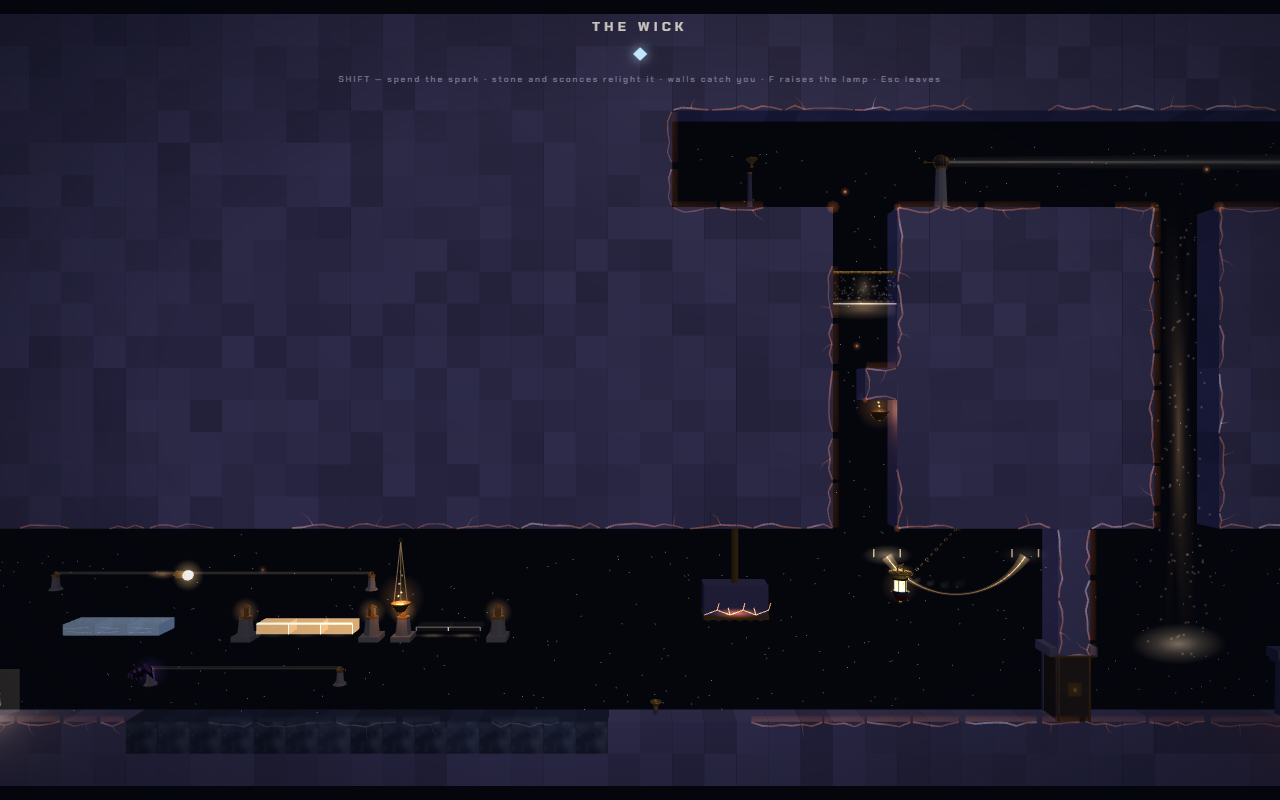
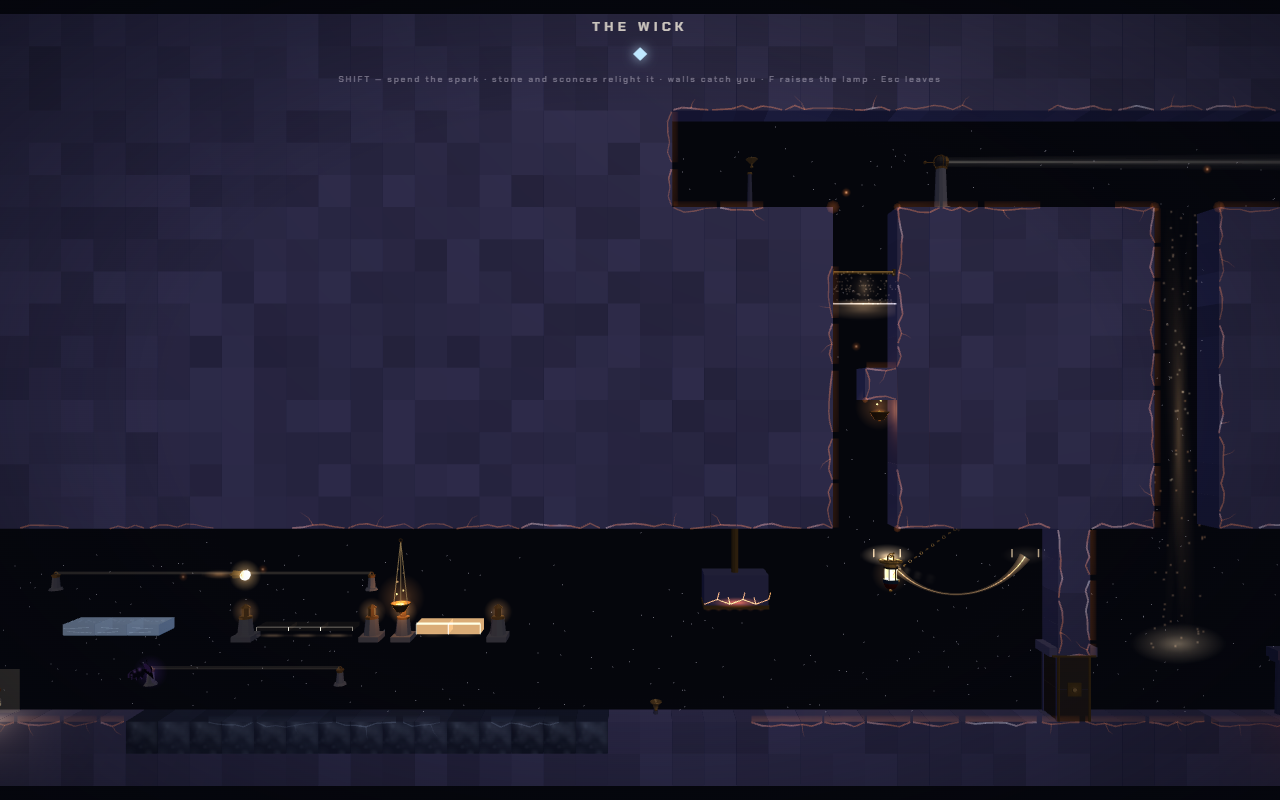
V4 · THE EMBER
The deepest room in the game, 44 x 56, and the first authored against the
final kit. Commitment is the idea and the room says it three ways.

The top third is rime alone. Crumble-and-regrow is a cadence when nothing
else is moving, and this room owns the cycle behaviour — the one-shot trap
shelf belongs to THE WEATHER and the two never share a room.

Then the gate, spanning the shaft. You drop through it and it will not pass
you back, which is the room stating what planting costs before anything is
hunting you.

Then everything at once: three lanterns a quarter-pulse apart over the drop,
bolts walking the wire, pistons out of both walls in opposition, watch-lights
parked on each wall until the gate arms them, the famine's own floor to land
a spent breath on, and the moth asleep on the left wall — it takes the breath
and leaves you standing, which in a shaft with a wave in it is worse than a
clean death. The trigger sits two screens under the gate; the side pockets
hold the braziers and the mid sconce, each costing a detour the wave taxes.
The seed is the only calm in it.

Graded, not merely reported: golden path proved on the P5 model, and clean
on the climax census, the sconce buffer and the flat walk. The pulse lint
caught censers phased in thirds, which the beat clock quantizes to quarters —
a room may not quietly drift out of the groove the whole game moves to.

Adds scripts/roomshot.mjs, the authoring loop's eyes.

diff --git a/src/world/vaults.ts b/src/world/vaults.ts
@@ -419,69 +419,122 @@ export const VAULTS: VaultDef[] = [
       '######################################################',
     ],
   },
-  // 5 · THE EMBER — planted deeper than grief, and the planting is a
-  // commitment: halfway down, the vault starts shedding — a wave of
-  // unlight follows you down the shaft, and the shelves you land on
-  // were only ever young ice. The seed sits in the one calm pocket.
+  // 5 · THE EMBER — commitment, and the deepest shaft in the game. The top
+  // third is rime alone: crumble-and-regrow taught as a cadence, because a
+  // shelf that comes back is a rhythm and a shelf that does not is a trap,
+  // and the two never share a room (grammar §2 — THE WEATHER owns the trap).
+  // Then the gate, which is architecture saying what planting means before
+  // anything is chasing you. Then everything at once, down a shaft whose
+  // walls have bitten through, with the wave's edge lighting the way it
+  // takes. The seed is the only calm in it.
   {
     glyph: 'ember',
-    // a 44-row shaft: the cuts are vertical seams down it, so the drift you
-    // take on the way down decides which chamber you land in
-    chambers: [12, 21, 33],
+    // one cut, and the entry sconce stands on it: the shaft is read as two
+    // columns of descent, and which one you are in when the wave arrives is
+    // the drift you took twenty rows above
+    chambers: [21],
     censers: [
-      { x: 23, y: 12, len: 3.6, arc: 0.95, period: 2.55, phase: 0 },
+      // three lanterns over the drop, each a quarter-pulse behind the last —
+      // dodged on the way down, and the middle one is the only footing across
+      // the gutter. Quarter-pulses, not thirds: §III's beat clock quantizes
+      // phase, and `pulse ratio` enforces it, so a room cannot quietly drift
+      // out of the groove the whole game moves to.
+      { x: 21, y: 20, len: 3.4, arc: 1.0, period: 2.55, phase: 0 },
+      { x: 15, y: 28, len: 2.8, arc: 0.85, period: 2.55, phase: 0.25 },
+      { x: 27, y: 36, len: 3.0, arc: 0.9, period: 2.55, phase: 0.5 },
+    ],
+    shuttles: [
+      // bolts walking the wire across the shaft, two pulses each
+      { x0: 10, y0: 26, x1: 33, y1: 26, period: 1.7, phase: 0 },
+      { x0: 33, y0: 44, x1: 10, y1: 44, period: 1.7, phase: 0.5 },
+      // and the moth, asleep on the left wall until the descent wakes it:
+      // it takes the breath and leaves you standing, which in a shaft with
+      // a wave in it is worse than a clean death
+      { x0: 11, y0: 33, x1: 30, y1: 35, period: 3.4, phase: 0, snuff: true },
+    ],
+    crushers: [
+      // pistons out of both walls on the pulse, opposite phase
+      { x: 10, y: 23, w: 3, h: 2, dx: 4, dy: 0, period: 3.4, phase: 0 },
+      { x: 31, y: 30, w: 3, h: 2, dx: -4, dy: 0, period: 3.4, phase: 0.5 },
+      // clear of the pocket sconce by seven courses: a checkpoint you cannot
+      // breathe after is not a checkpoint (grammar §4.2 wants five)
+      { x: 10, y: 48, w: 3, h: 2, dx: 4, dy: 0, period: 2.55, phase: 0.25 },
+    ],
+    beams: [
+      // watch-lights on both walls, parked until you are through the gate and
+      // then sweeping in opposition. One per wall is also what P4 asks for:
+      // the shaft's right-hand column may introduce nothing its left has not
+      // already taught, and the cut runs down the middle of the descent.
+      { x: 33.5, y: 21.5, period: 4.25, phase: 0, spin: true, parked: true, arm: [10, 19, 33, 20] },
+      { x: 10.5, y: 31.5, period: 4.25, phase: 0.5, spin: true, parked: true, arm: [10, 19, 33, 20] },
+    ],
+    gates: [
+      // the curtain across the shaft: down through it, never back up
+      { x0: 10, y0: 19, x1: 33, y1: 19 },
     ],
     pursuit: {
-      zone: [8, 8, 37, 38],
+      zone: [10, 32, 33, 51],
       dir: 'down',
-      speed: 2.4,
-      trigger: [8, 18, 37, 20],
+      speed: 2.9,
+      trigger: [10, 32, 33, 34],
     },
     map: [
-      '##############################################',
-      '##############################################',
-      '##############################################',
-      '#............................................#',
-      '#.....................@......................#'.slice(0, 45) + '#',
-      '#............................................#',
-      '##################..........##################',
-      '########..............................########',
-      '########..............................########',
-      '########......RRRR....................########',
-      '########..............................########',
-      '########....................RRRR......########',
-      '########..............................########',
-      '########..RRRR........................########',
-      '########..............................########',
-      '########............RRRR..............########',
-      '########....S.........................########',
-      '########..............................########',
-      '########..............RRRR............########',
-      '########..............................########',
-      '########......RRRR............RRRR....########',
-      '########..............................########',
-      '########..........RRRR................########',
-      '########..............................########',
-      '########....RRRR.....S................########',
-      '########..............................########',
-      '########..............RRRR............########',
-      '########..............................########',
-      '########........RRRR..........RRRR....########',
-      '########..............................########',
-      '########....RRRR......................########',
-      '########..............................########',
-      '########..........RRRR.....RRRR..S....########',
-      '########..............................########',
-      '########......RRRR....................########',
-      '########..............................########',
-      '########..............RRRR............########',
-      '########..............................########',
-      '########..........RRRR................########',
-      '########..............................########',
-      '########...........M.................#########'.slice(0, 45) + '#',
-      '########XXXXXXXX######XXXXXXXXXXXXXX##########'.slice(0, 45) + '#',
-      '##############################################',
-      '##############################################',
+      '############################################',
+      '############################################',
+      '##########........................##########',
+      '##########.....o............o.....##########',
+      '##########..@........S............##########',
+      '##########.........o....o.........##########',
+      '##################.....#####################',
+      '##########.RRR......o.............##########',
+      '##########..................===...##########',
+      '##########......RRR........o......##########',
+      '##########...............RRR......##########',
+      '##########RR.o....................##########',
+      '##########..........RRR........o..##########',
+      '##########.....................===##########',
+      '##########....RRR.......o.........##########',
+      '##########................RRR.....##########',
+      '##########.RR.....o...............##########',
+      '##########............RRR.........##########',
+      '##########.....o..............o...##########',
+      '##########..o....o....o....o....o.##########',
+      '##########........................##########',
+      '##########RRR.....................##########',
+      '##########..............====......##########',
+      '##########X..................RRR..##########',
+      '##########X..........o...........X##########',
+      '##########.....RRR................##########',
+      '##########===....................X##########',
+      '##########..........o......RRR....##########',
+      '##########XX......................##########',
+      '##########........RRR.............##########',
+      '##########................o.....XX##########',
+      '##########RRR.................===.##########',
+      '##########....o..........o........##########',
+      '##########...........RRR..........##########',
+      '##########X......................X##########',
+      '##########...RR..............o....##########',
+      '##########X..............RRR......##########',
+      '##########.RRR....................##########',
+      '##########............o......RRR..##########',
+      '############*###..................##########',
+      '##########.S........RRR...........##########',
+      '##########.....o.............###############',
+      '##########.....RRR...............X##########',
+      '##########................===.....##########',
+      '##########RRR...........o.........##########',
+      '##########.................####*############',
+      '##########.........RRR............##########',
+      '##########X.................RRR...##########',
+      '##########..RR..o..........o......##########',
+      '##########.............RRR........##########',
+      '##########....o..............o....##########',
+      '####################....####################',
+      '##########........................##########',
+      '##########...o...N....M.......o...##########',
+      '##########........................##########',
+      '############################################'
     ],
   },
   // 6 · THE WEATHER — the storm crossing, with teeth: gusts on the old

diff --git a/scripts/author-ember.py b/scripts/author-ember.py
@@ -1,0 +1,201 @@
+"""THE EMBER — V4 authoring. A 44 x 56 shaft: the deepest room in the game.
+
+Walls 0-9 and 34-43; the shaft itself is x 10..33, twenty-four columns wide.
+One camera cut at col 21, with the entry sconce standing on it.
+"""
+import io, re
+
+W, L, R = 44, 10, 33          # width, and the shaft's inclusive bounds
+IW = R - L + 1                # 24 interior columns
+
+
+def row(interior=''):
+    """Build a full row from its interior, padding with shaft wall."""
+    s = interior.ljust(IW, '.')
+    assert len(s) == IW, (len(s), s)
+    return '#' * L + s + '#' * (W - R - 1)
+
+
+def solid():
+    return '#' * W
+
+
+def put(base, **marks):
+    """Place chars at absolute columns on an interior string."""
+    a = list(base.ljust(IW, '.'))
+    for ch, cols in marks.items():
+        for c in (cols if isinstance(cols, (list, tuple)) else [cols]):
+            a[c - L] = ch[0] if len(ch) > 1 else ch
+    return ''.join(a)
+
+
+def floorRow(gaps):
+    """A full-width stone course with holes at the given absolute columns."""
+    a = ['#'] * IW
+    for c in gaps:
+        a[c - L] = '.'
+    return ''.join(a)
+
+
+rows = []
+A = rows.append
+
+# ---- the cap ----------------------------------------------------------------
+A(solid()); A(solid())
+
+# ---- 2-6 · the entry shelf. Wide, safe, and it says which way is down. ------
+A(row())
+A(row(put('', o=[15, 28])))
+A(row(put('', **{'@': 12, 'S': 21})))
+A(row(put('', o=[19, 24])))
+A(row(floorRow([18, 19, 20, 21, 22])))
+
+# ---- 7-18 · rime rhythm. No wave yet: the shelves are the whole lesson, and
+#      they regrow, so the descent is a cadence rather than a staircase. -----
+A(row(put('', R=[11, 12, 13], o=20)))
+A(row(put('', **{'=': [28, 29, 30]})))
+A(row(put('', R=[16, 17, 18], o=27)))
+A(row(put('', R=[25, 26, 27])))
+A(row(put('', o=13, R=[10, 11])))
+A(row(put('', R=[20, 21, 22], o=31)))
+A(row(put('', **{'=': [31, 32, 33]})))
+A(row(put('', R=[14, 15, 16], o=24)))
+A(row(put('', R=[26, 27, 28])))
+A(row(put('', R=[11, 12], o=18)))
+A(row(put('', R=[22, 23, 24])))
+A(row(put('', o=[15, 30])))
+
+# ---- 19 · THE GATE. It spans the shaft. You go down through it and it does
+#      not pass you back — the room says what planting means before anything
+#      hunts you. -----------------------------------------------------------
+A(row(put('', o=[12, 17, 22, 27, 32])))
+A(row())
+
+# ---- 21-31 · under the gate, the teeth come out: censers over the drop, a
+#      bolt on its wire, pistons out of both walls, and the famine's own
+#      floor to stand a spent breath on. --------------------------------------
+A(row(put('', R=[10, 11, 12])))
+A(row(put('', **{'=': [24, 25, 26, 27]})))
+A(row(put('', X=[10], R=[29, 30, 31])))
+A(row(put('', X=[10, 33], o=21)))
+A(row(put('', R=[15, 16, 17])))
+A(row(put('', X=[33], **{'=': [10, 11, 12]})))
+A(row(put('', R=[27, 28, 29], o=20)))
+A(row(put('', X=[10, 11])))
+A(row(put('', R=[18, 19, 20])))
+A(row(put('', X=[32, 33], o=26)))
+A(row(put('', R=[10, 11, 12], **{'=': [30, 31, 32]})))
+
+# ---- 32-35 · the trigger band. Two screens under the gate, as specified. ----
+A(row(put('', o=[14, 25])))
+A(row(put('', R=[21, 22, 23])))
+A(row(put('', X=[10, 33])))
+A(row(put('', R=[13, 14], o=29)))
+
+# ---- 36-49 · the pursuit descent. Rime density rises; the side pockets hold
+#      the braziers and the mid sconce, each costing a detour the wave taxes.
+A(row(put('', R=[25, 26, 27], X=[10])))
+A(row(put('', R=[11, 12, 13])))
+A(row(put('', o=22, R=[29, 30, 31])))
+# the left pocket: a brazier hung where a missed refill would cost the shaft
+A(row(put(floorRow([16, 17, 18, 19, 20, 21, 22, 23, 24, 25, 26, 27, 28, 29, 30, 31, 32, 33]), **{'*': 12})))
+A(row(put('', S=11, R=[20, 21, 22])))
+A(row(put(floorRow([10, 11, 12, 13, 14, 15, 16, 17, 18, 19, 20, 21, 22, 23, 24, 25, 26, 27, 28]), o=15)))
+A(row(put('', R=[15, 16, 17], X=[33])))
+A(row(put('', **{'=': [26, 27, 28]})))
+A(row(put('', R=[10, 11, 12], o=24)))
+# the right pocket: the second brazier, the last refill before the seed
+A(row(put(floorRow([10, 11, 12, 13, 14, 15, 16, 17, 18, 19, 20, 21, 22, 23, 24, 25, 26]), **{'*': 31})))
+A(row(put('', R=[19, 20, 21])))
+A(row(put('', R=[28, 29, 30], X=[10])))
+A(row(put('', o=[16, 27], R=[12, 13])))
+A(row(put('', R=[23, 24, 25])))
+
+# ---- 50-55 · THE SEED. The wave breaks against the light and drains away.
+#      One figure kneeling, the room's only K, and the stone as the ember. ---
+A(row(put('', o=[14, 29])))
+A(row(floorRow([20, 21, 22, 23])))
+A(row())
+A(row(put('', N=17, M=22, o=[13, 30])))
+A(row())
+A(solid())
+
+for i, r in enumerate(rows):
+    assert len(r) == W, f'row {i} is {len(r)} wide: {r}'
+
+defn = """  // 5 · THE EMBER — commitment, and the deepest shaft in the game. The top
+  // third is rime alone: crumble-and-regrow taught as a cadence, because a
+  // shelf that comes back is a rhythm and a shelf that does not is a trap,
+  // and the two never share a room (grammar §2 — THE WEATHER owns the trap).
+  // Then the gate, which is architecture saying what planting means before
+  // anything is chasing you. Then everything at once, down a shaft whose
+  // walls have bitten through, with the wave's edge lighting the way it
+  // takes. The seed is the only calm in it.
+  {
+    glyph: 'ember',
+    // one cut, and the entry sconce stands on it: the shaft is read as two
+    // columns of descent, and which one you are in when the wave arrives is
+    // the drift you took twenty rows above
+    chambers: [21],
+    censers: [
+      // three lanterns over the drop, each a quarter-pulse behind the last —
+      // dodged on the way down, and the middle one is the only footing across
+      // the gutter. Quarter-pulses, not thirds: §III's beat clock quantizes
+      // phase, and `pulse ratio` enforces it, so a room cannot quietly drift
+      // out of the groove the whole game moves to.
+      { x: 21, y: 20, len: 3.4, arc: 1.0, period: 2.55, phase: 0 },
+      { x: 15, y: 28, len: 2.8, arc: 0.85, period: 2.55, phase: 0.25 },
+      { x: 27, y: 36, len: 3.0, arc: 0.9, period: 2.55, phase: 0.5 },
+    ],
+    shuttles: [
+      // bolts walking the wire across the shaft, two pulses each
+      { x0: 10, y0: 26, x1: 33, y1: 26, period: 1.7, phase: 0 },
+      { x0: 33, y0: 44, x1: 10, y1: 44, period: 1.7, phase: 0.5 },
+      // and the moth, asleep on the left wall until the descent wakes it:
+      // it takes the breath and leaves you standing, which in a shaft with
+      // a wave in it is worse than a clean death
+      { x0: 11, y0: 33, x1: 30, y1: 35, period: 3.4, phase: 0, snuff: true },
+    ],
+    crushers: [
+      // pistons out of both walls on the pulse, opposite phase
+      { x: 10, y: 23, w: 3, h: 2, dx: 4, dy: 0, period: 3.4, phase: 0 },
+      { x: 31, y: 30, w: 3, h: 2, dx: -4, dy: 0, period: 3.4, phase: 0.5 },
+      // clear of the pocket sconce by seven courses: a checkpoint you cannot
+      // breathe after is not a checkpoint (grammar §4.2 wants five)
+      { x: 10, y: 48, w: 3, h: 2, dx: 4, dy: 0, period: 2.55, phase: 0.25 },
+    ],
+    beams: [
+      // watch-lights on both walls, parked until you are through the gate and
+      // then sweeping in opposition. One per wall is also what P4 asks for:
+      // the shaft's right-hand column may introduce nothing its left has not
+      // already taught, and the cut runs down the middle of the descent.
+      { x: 33.5, y: 21.5, period: 4.25, phase: 0, spin: true, parked: true, arm: [10, 19, 33, 20] },
+      { x: 10.5, y: 31.5, period: 4.25, phase: 0.5, spin: true, parked: true, arm: [10, 19, 33, 20] },
+    ],
+    gates: [
+      // the curtain across the shaft: down through it, never back up
+      { x0: 10, y0: 19, x1: 33, y1: 19 },
+    ],
+    pursuit: {
+      zone: [10, 32, 33, 51],
+      dir: 'down',
+      speed: 2.9,
+      trigger: [10, 32, 33, 34],
+    },
+    map: [
+%s
+    ],
+  },
+"""
+body = ',\n'.join("      '" + r + "'" for r in rows)
+out = defn % body
+
+p = 'src/world/vaults.ts'
+s = io.open(p, encoding='utf-8').read()
+start = s.index("  // 5 · THE EMBER")
+if start < 0:
+    raise SystemExit('anchor not found')
+end = s.index("  // 6 · THE WEATHER")
+s = s[:start] + out + s[end:]
+io.open(p, 'w', encoding='utf-8').write(s)
+print('EMBER written:', len(rows), 'rows x', W)
